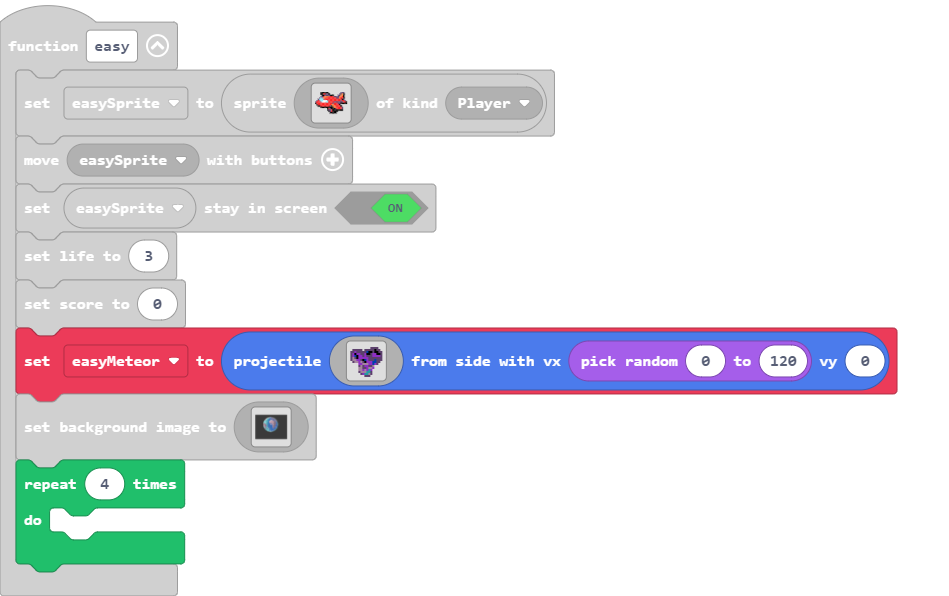
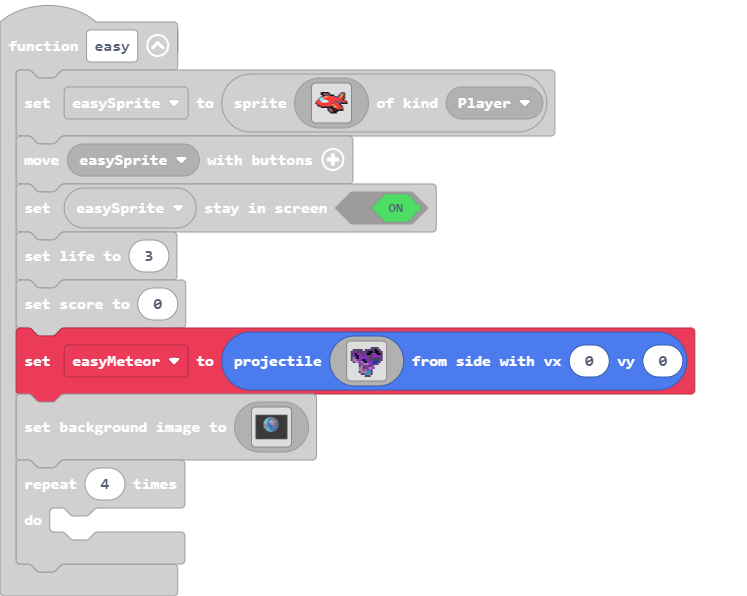
Update main.blocks, main.ts

Changed region(s): [[0.0, 0.0, 0.9545, 1.0], [0.0, 0.0, 0.0308, 0.0302]]

diff --git a/main.ts b/main.ts
@@ -38,7 +38,7 @@ function easy () {
         . . . . c b b b 6 6 c . . . . . 
         . . . . . c a 6 6 b c . . . . . 
         . . . . . . . c c c . . . . . . 
-        `, randint(0, 120), 0)
+        `, 0, 0)
     scene.setBackgroundImage(img`
         ffffffffffffffffffffffffffffffffffffffffffffffffffffffffffffffffffffffffffffffffffffffffffffffffffffffffffffffffffffffffffffffffffffffffffffffffffffffffffffffff
         ffffffffffffffffffffffffffffffffffffffffffffffffffffffffffffffffffffffffffffffffffffffffffffffffffffffffffffffffffffffffffffffffffffffffffffffffffffffffffffffff
